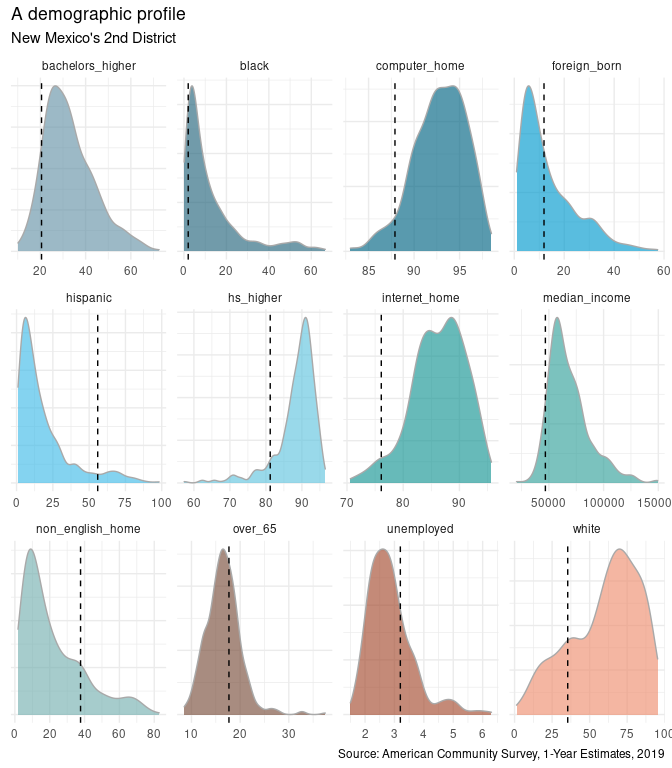
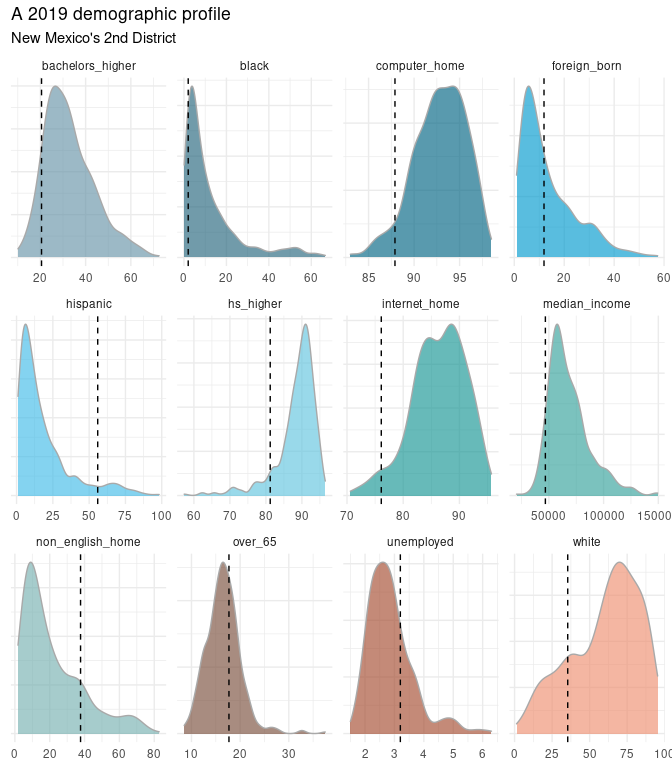
re

diff --git a/all-the-newness.md b/all-the-newness.md
@@ -256,7 +256,7 @@ vvo <- Rvoteview::download_metadata(type = 'members',
   filter(congress > 66 & chamber != 'President')
 ```
 
-    ## [1] "/tmp/RtmpJjfkjs/Hall_members.csv"
+    ## [1] "/tmp/RtmpAV461p/Hall_members.csv"
 
 ``` r
 house <- vvo %>%
@@ -389,6 +389,8 @@ ah2 <- strsplit(ah1, 'It has aptly been observed that Cato was the Tory-Cæsar t
 > suspected that his object is to throw things into confusion that he
 > may “ride the storm and direct the whirlwind.”
 
+### Search -
+
 1.  search using `quicknews` –
 
 ``` r
@@ -419,32 +421,32 @@ quicknews::qnews_search_contexts(qorp = qorp,
 </thead>
 <tbody>
 <tr class="odd">
-<td style="text-align: left;">text10463</td>
-<td style="text-align: left;">… appears altogether impracticable , in the present state of the <code>Federal Government</code> , to make the Interest or honor of the Union …</td>
+<td style="text-align: left;">text2588</td>
+<td style="text-align: left;">… those of the several States , &amp; to support the <code>federal Government</code> ; it is a very important Question how far it …</td>
 </tr>
 <tr class="even">
-<td style="text-align: left;">text9681</td>
-<td style="text-align: left;">… the War of Independence were to be assumed by the <code>federal government</code> under terms of a plan established by " An Act …</td>
+<td style="text-align: left;">text11998</td>
+<td style="text-align: left;">… as great a claim to protection as any under the <code>Federal Government</code> . A great proportion of us served our country through …</td>
 </tr>
 <tr class="odd">
-<td style="text-align: left;">text19333</td>
-<td style="text-align: left;">… a masterly Stroke of Policy , and will establishe The <code>Federal Government</code> in the Hearts of the People . The Resources of …</td>
+<td style="text-align: left;">text20142</td>
+<td style="text-align: left;">… &amp; to indulge his Curiosity at the Seat of The <code>Federal Government</code> . Having a good property both here , and in …</td>
 </tr>
 <tr class="even">
-<td style="text-align: left;">text9511</td>
-<td style="text-align: left;">… western Settlements . That these considerations ought to make the <code>Federal Government</code> take ( he thinks ) the most decisive steps as …</td>
+<td style="text-align: left;">text10795</td>
+<td style="text-align: left;">… in the late Convention of this State for Ratifying the <code>Federal Government</code> - is a man of Industry respectable abilities and firm …</td>
 </tr>
 <tr class="odd">
-<td style="text-align: left;">text19690</td>
-<td style="text-align: left;">… Checks devised in Democracies marking self-distrust , " and " <code>Federal Governments</code> " ) were never printed in the National Gazette , …</td>
+<td style="text-align: left;">text25757</td>
+<td style="text-align: left;">… anxious to receive a communication from the officers of the <code>Federal Government</code> on the Subject . I have dispatched a messenger to …</td>
 </tr>
 <tr class="even">
-<td style="text-align: left;">text1378</td>
-<td style="text-align: left;">… would keep a Day of Thanksgiving on hearing that the <code>Federal Government</code> was dissolved , and some of the principle officers carred …</td>
+<td style="text-align: left;">text1782</td>
+<td style="text-align: left;">… the implied insult offered to the good sense of the <code>federal government</code> in the newspaper ( &amp; as supposed ministerial ) paragraph …</td>
 </tr>
 <tr class="odd">
-<td style="text-align: left;">text6804</td>
-<td style="text-align: left;">… designs of its enemies , and to rally round the <code>Federal government</code> as a Standard where our most precious interests are well …</td>
+<td style="text-align: left;">text5203</td>
+<td style="text-align: left;">… people of this State wou’d be perfectly Satisfied with the <code>federal Government</code> , if not misrepresented . I wish it were in …</td>
 </tr>
 </tbody>
 </table>
@@ -579,13 +581,6 @@ house %>%
 ### Profiling congressional districts via census data
 
 ``` r
-tidycensus::census_api_key("b508704c99f3ae9bc5b5e7c41e3dd77e59d52722")
-Sys.getenv("CENSUS_API_KEY")
-```
-
-    ## [1] "b508704c99f3ae9bc5b5e7c41e3dd77e59d52722"
-
-``` r
 library(tigris); options(tigris_use_cache = TRUE, tigris_class = "sf")
 nonx <- c('78', '69', '66', '72', '60', '15', '02')
 
@@ -645,9 +640,8 @@ base_viz +
   geom_vline (data = nm02, 
               aes(xintercept=estimate),
               linetype = 2) +
-  labs(title = "A demographic profile",
-       subtitle = "New Mexico's 2nd District", 
-       caption = 'Source: American Community Survey, 1-Year Estimates, 2019')
+  labs(title = "A 2019 demographic profile",
+       subtitle = "New Mexico's 2nd District")
 ```
 
 ![](all-the-newness_files/figure-markdown_github/unnamed-chunk-25-1.png)
@@ -710,6 +704,9 @@ uscds <- tigris::congressional_districts(cb = TRUE) %>%
   select(GEOID) %>%
   mutate(state_code = substr(GEOID, 1, 2),
          district_code = substr(GEOID, 3, 4)) 
+
+laea <- sf::st_crs("+proj=laea +lat_0=30 +lon_0=-95") # Lambert equal area
+uscds  <- sf::st_transform(uscds , laea)
 ```
 
 White working map — via equal-area –
